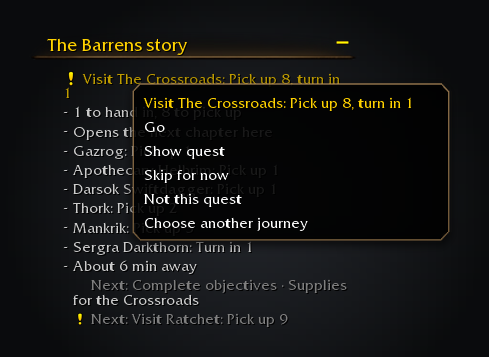
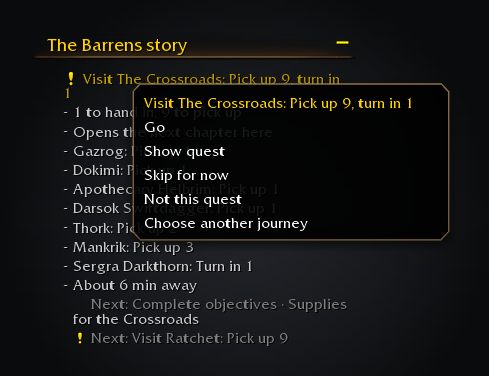
chore: prepare v0.12.2
Move the Unreleased notes to 0.12.2, led by the finished-quests fix, and
open WHATS_NEW with that headline. Regenerate the tracker and menu
screenshots for QuestieDB v1.0.6: Dokimi now gives a Crossroads pickup,
so the Barrens tracker lists 9 pickups. The other images render with
identical pixels and are kept byte for byte.

Claude-Session: https://claude.ai/code/session_01PbEA1MKHb9mKNZ9pZAx642

Changed region(s): [[0.0613, 0.0924, 0.9202, 0.9244]]

diff --git a/CHANGELOG.md b/CHANGELOG.md
@@ -11,9 +11,11 @@ verbatim rather than rewritten as the addon moves.
 
 ## [Unreleased]
 
-- **A detached tracker with nothing to show leaves the screen.** Its "Forever tracker" title hides with the empty column and comes back, where you left it, as soon as a section has something to show.
+## [0.12.2] - 2026-10-13
 
 - **Finished quests catch up without a /reload.** The guide read your finished quests once per session and then only counted the ones you handed in, so a quest the game closed some other way (a breadcrumb or the other branch of a chain) stayed on the route until you reloaded. It now reads them again after each hand-in and at every loading screen, and if the game has no answer at login it keeps asking instead of staying on "Loading".
+
+- **A detached tracker with nothing to show leaves the screen.** Its "Forever tracker" title hides with the empty column and comes back, where you left it, as soon as a section has something to show.
 
 - **Less work while looting and on the map.** Picking up coins no longer asks for your trainable spells once per coin, and refreshing the world map's quest-giver pins reuses the quest log the route was planned from.
 
